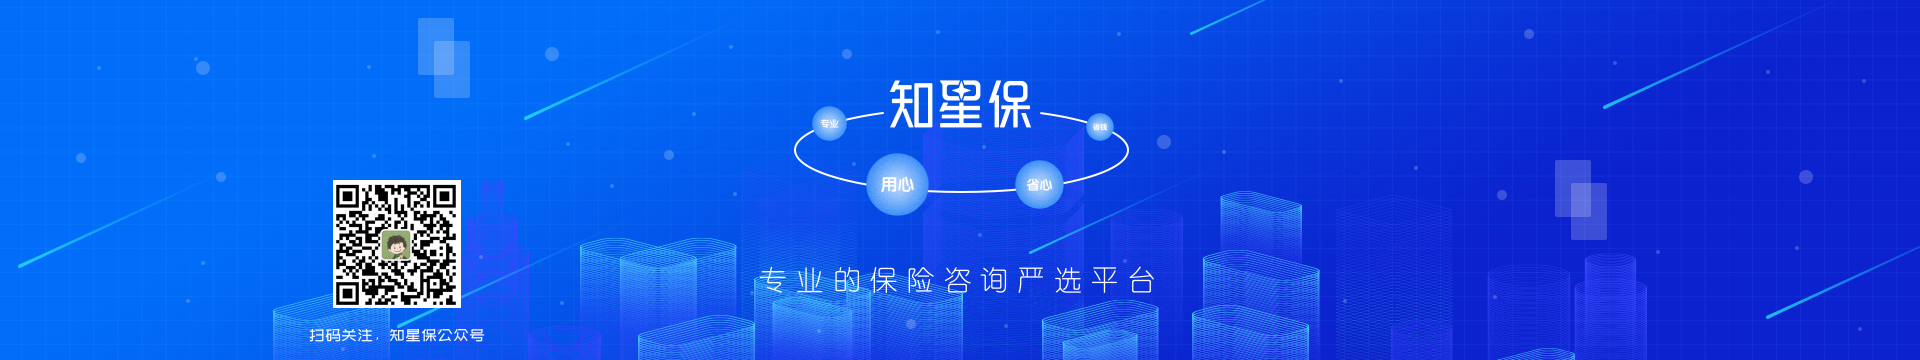
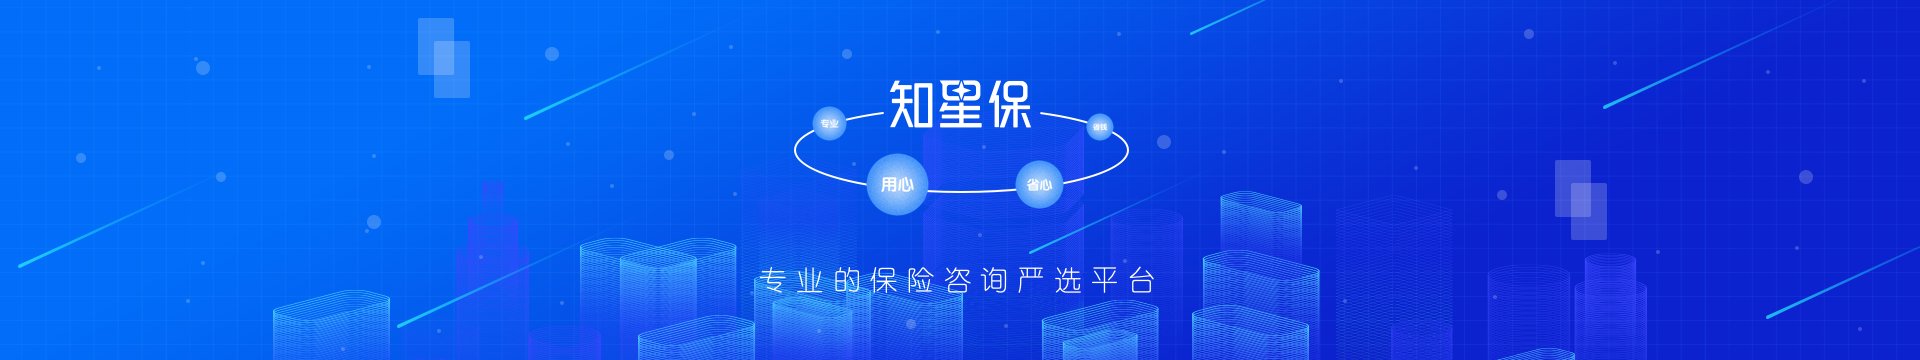
修改知星保官网

Changed region(s): [[0.1562, 0.4889, 0.25, 0.8556], [0.1562, 0.9167, 0.25, 0.9472]]

diff --git a/src/views/Product.vue b/src/views/Product.vue
@@ -52,7 +52,7 @@
 			</div>
 			<div class="section-right">
 				<img src="../assets/img/编组 8备份.png" alt="">
-				<img src="../assets/img/扫描二维码.png" alt="">
+				<!-- <img src="../assets/img/扫描二维码.png" alt=""> -->
 			</div>
 		</div>
 
@@ -329,10 +329,13 @@
 										}
 									}
 									.btn{
+										width: 90%;
 										position: absolute;
 										right: 20px;
 										bottom: 10px;
 										button{
+											display: inline-block;
+											width: 88px;
 											font-size:14px;
 											font-family:PingFang-SC-Bold,PingFang-SC;
 											font-weight:bold;
@@ -342,13 +345,13 @@
 											padding: 5px 15px;
 											border-radius: 25px;
 											background-color: #fff;
+											margin-left: 40px;
 											a{
 												color:rgba(1,109,248,1);
 											}
 											&:last-of-type{
 												background-color: #016DF8;
 												color: #fff;
-												margin-left: 5%;
 											}
 										}
 									}

diff --git a/src/api/constans.js b/src/api/constans.js
@@ -2,13 +2,13 @@ let baseUrl = "";
 let VUE_APP_TITLE = process.env.VUE_APP_TITLE
 switch (VUE_APP_TITLE) {
     case 'test':   // 注意这里的名字要和步骤二中设置的环境名字对应起来
-        baseUrl = "http://app.shuangzixinggame.com:8089/eladmin-system-2.3"  //这里是测试环境中的url
+        baseUrl = "http://app.shuangzixinggame.com:8089/eladmin-system-2.4"  //这里是测试环境中的url
         break
     case 'prod':
-        baseUrl = "http://app.xingchixinxi.com:8089/eladmin-system-2.3"   //生产环境url
+        baseUrl = "http://app.xingchixinxi.com:8089/eladmin-system-2.4"   //生产环境url
         break
     default:
-        baseUrl = "http://app.shuangzixinggame.com:8089/eladmin-system-2.3"  //这里是本地的请求url
+        baseUrl = "http://app.shuangzixinggame.com:8089/eladmin-system-2.4"  //这里是本地的请求url
 }
 
 export default baseUrl;

diff --git a/src/components/Footer.vue b/src/components/Footer.vue
@@ -29,9 +29,9 @@
 				<div>
 					<img src="../assets/img/二维码.png" alt="">
 					<span>知星保</span>
-				</div>    
+				</div>   
 			</div>
-			<p>© 2020 宁波星池信息技术有限公司 <a href="http://www.beian.miit.gov.cn" target="_blank"> 浙ICP备20000702号-1 </a></p>
+			<p>© 2020 宁波双子星信息科技有限公司 <a href="http://www.beian.miit.gov.cn" target="_blank"> 浙ICP备19038864号-1 </a></p>
 
 		</div>
 	</div>
@@ -51,6 +51,7 @@
 		min-width:1200px;
 		.footer-section{
 			width: 70%;
+			overflow: hidden;
 			margin: 0 auto;
 			h3{
 				font-size:18px;
@@ -100,6 +101,7 @@
 					}
 				}
 				&:nth-of-type(4){
+					visibility: hidden;
 					div{
 						img{
 							

diff --git a/src/views/Evaluation.vue b/src/views/Evaluation.vue
@@ -45,7 +45,7 @@
             </div>
             <div class="section-right">
                 <img src="../assets/img/编组 8备份.png" alt="">
-                <img src="../assets/img/扫描二维码.png" alt="">
+                <!-- <img src="../assets/img/扫描二维码.png" alt=""> -->
             </div>
            
         </div>

diff --git a/src/views/ClassRoom.vue b/src/views/ClassRoom.vue
@@ -42,7 +42,7 @@
 			</div>
 			<div class="section-right">
 				<img src="../assets/img/编组 8备份.png" alt="">
-				<img src="../assets/img/扫描二维码.png" alt="">
+				<!-- <img src="../assets/img/扫描二维码.png" alt=""> -->
 			</div>
 		</div>
 

diff --git a/src/views/Home.vue b/src/views/Home.vue
@@ -58,7 +58,7 @@
 			</div>
 			<div class="section-right">
 				<img src="../assets/img/编组 8备份.png" alt="">
-				<img src="../assets/img/扫描二维码.png" alt="">
+				<!-- <img src="../assets/img/扫描二维码.png" alt=""> -->
 			</div>
 		</div>
 
